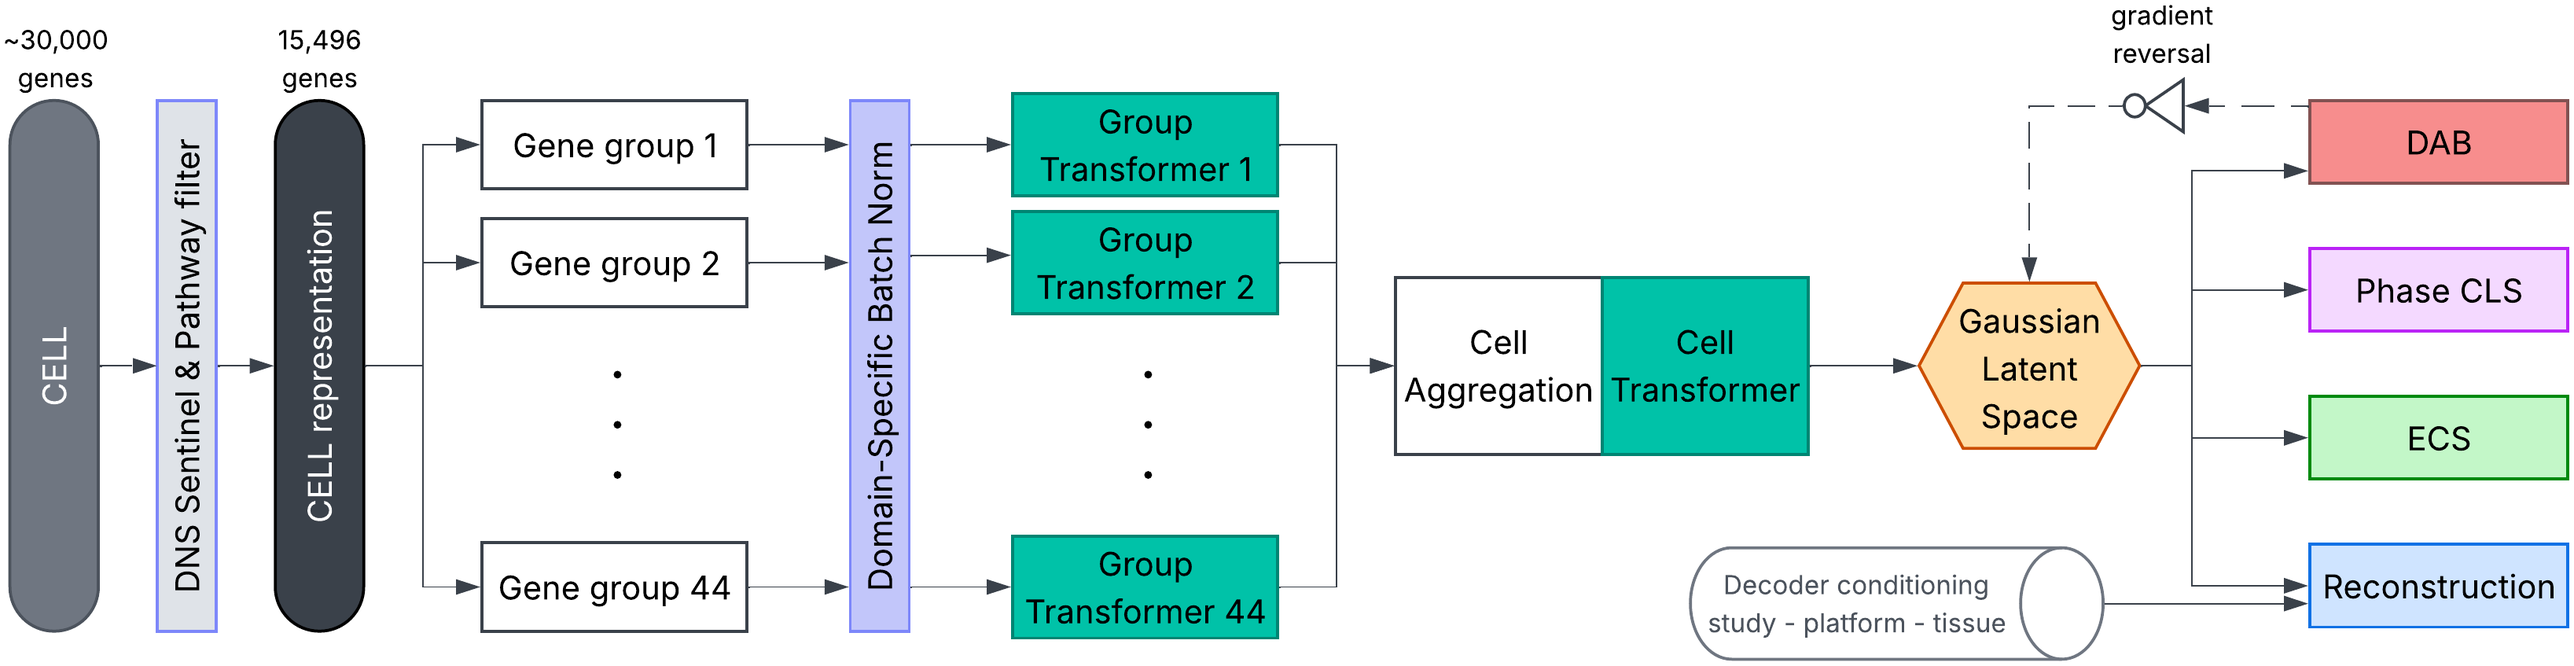
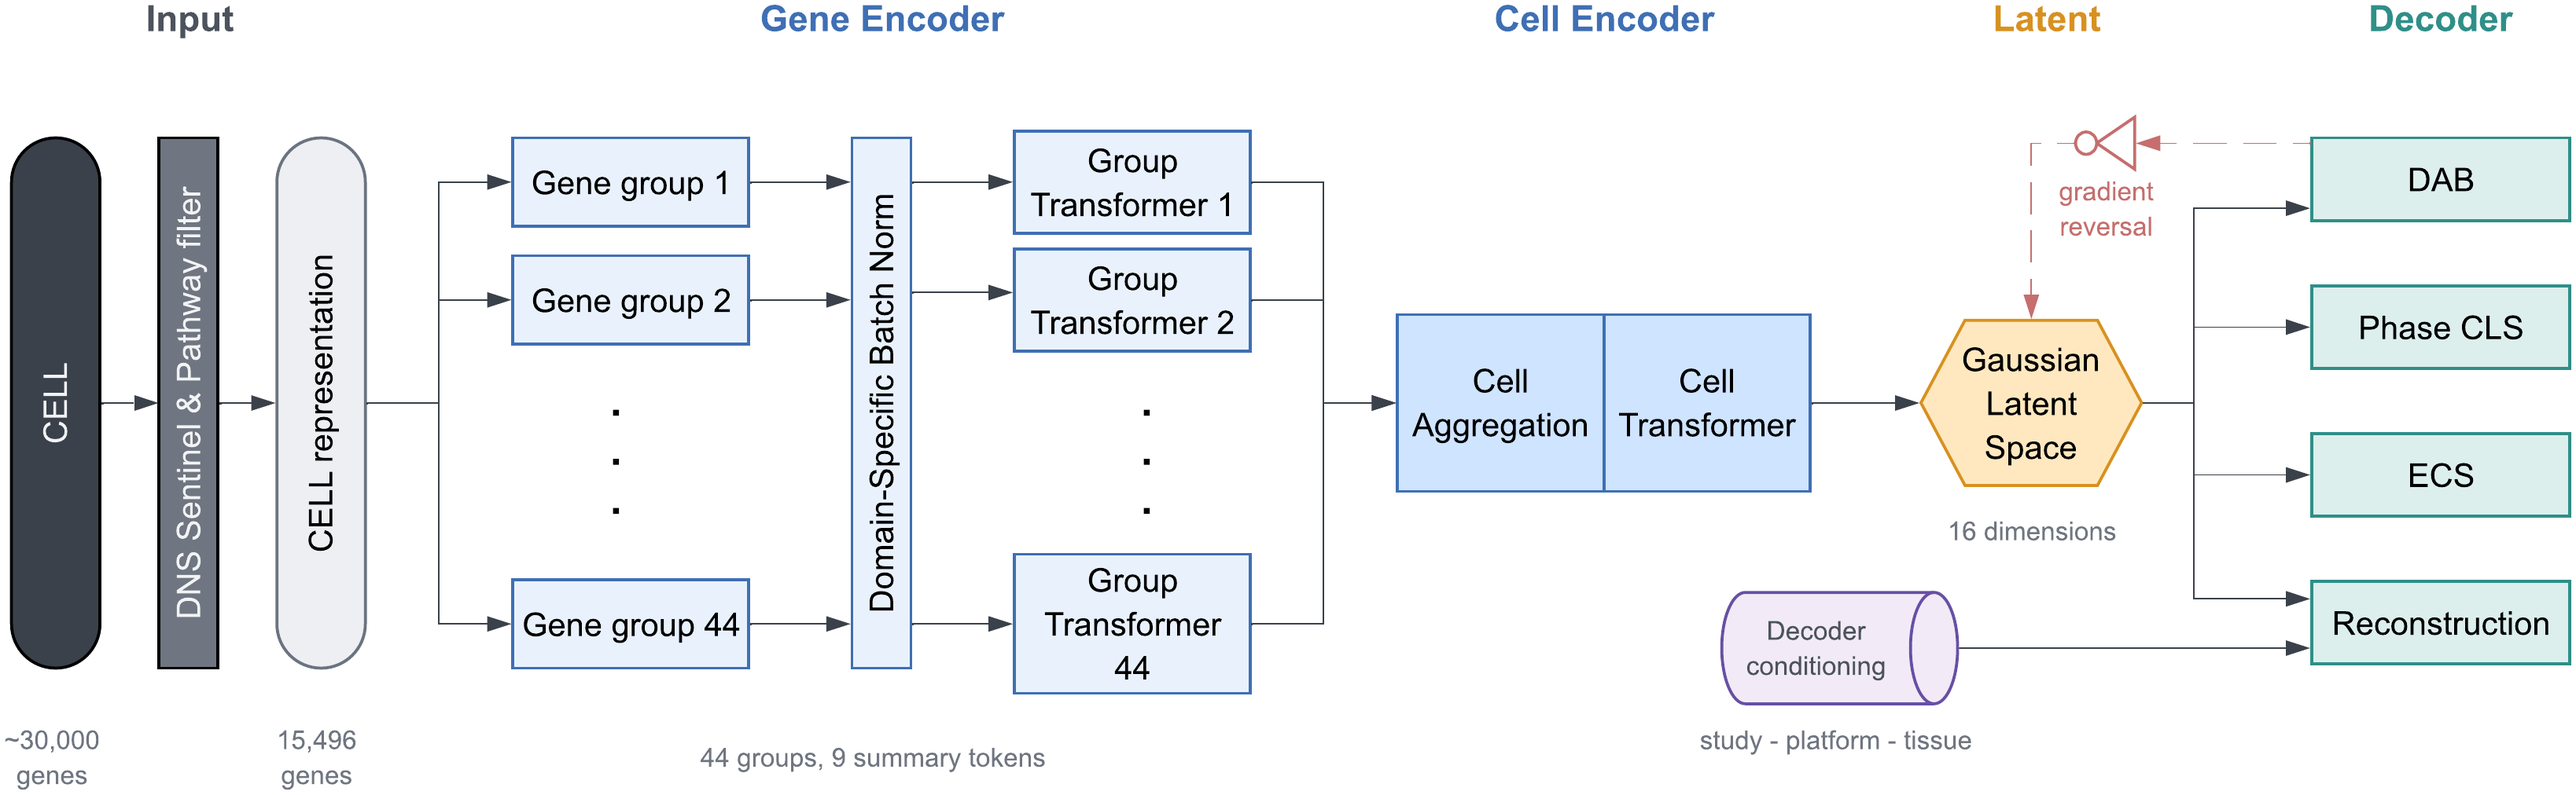
Figure 1 on AW's ELAJ-4 architecture

diff --git a/figures/scripts/figure1.py b/figures/scripts/figure1.py
@@ -32,9 +32,15 @@ FOUR CONVENTIONS TAKEN FROM scGPT, all of which the old version broke.
   * Blocks are separated by real space, not by the minimum that fits.
 
 PANEL a IS AW'S OWN DRAWING, not drawn here, flattened onto white and
-trimmed to its ink. At 3.87:1 it can only run full width: narrowed to two
-thirds its type would fall to about 3.4 pt. That constraint sets the whole
-layout, so panel a takes the top row and everything else is built beneath it.
+trimmed to its ink. It can only run full width: at 3.24:1 its smallest type
+is already 5.1 pt at 180 mm, so narrowing it to two thirds would put that
+text near 3.4 pt, under NMI's floor. That constraint sets the whole layout,
+so panel a takes the top row and everything else is built beneath it.
+
+ITS TYPE IS MEASURED, NOT ASSUMED: headings 6.9 pt, text in shapes 6.5,
+foot annotations 5.1, which is the scale the rest of this figure matches at
+6.5 / 6.0 / 5.5. AW draws it in LucidChart at 11 / 10 / 8 pt; that tool
+renders at 0.623 of its own point size once the export is placed at 180 mm.
 
 THE FRONTIER PANELS READ THE TABLE'S OWN SOURCES. table1.collect() is
 imported rather than copied, so a point here and a row there cannot come
@@ -276,7 +282,9 @@ def main() -> None:
     aw = W - L - R
     arch = mpimg.imread(ARCH)
     ah = aw * arch.shape[0] / arch.shape[1]      # panel a's own aspect, exactly
-    GAP_A = 11.0                                 # air under panel a
+    GAP_A = 8.0                                  # air under panel a
+    #       ^ less than the other gaps: the drawing already carries
+    #       its own foot annotations and their whitespace.
     GAP_COL = 13.0                               # between the two columns
     GAP_ROW = 13.0                               # between the two plot rows
     cw = (aw - GAP_COL) / 2                      # 82 mm per column
@@ -316,7 +324,9 @@ def main() -> None:
     umap(ax_e, lax_e, xy, m["study"], studies, STUDY_C[:len(studies)],
          names=STUDY_NAME)
 
-    head(ax_a, "a", "The model")
+    # no title on a: the drawing carries its own stage headings, and a
+    # second heading on the same line just crowds "Input".
+    head(ax_a, "a")
     head(ax_b, "b", "Cycle against donor recovery", dx=-GUT / (cw - GUT))
     head(ax_c, "c", "Cycle against study separation", dx=-GUT / (cw - GUT))
     head(ax_d, "d", "Cell family")
